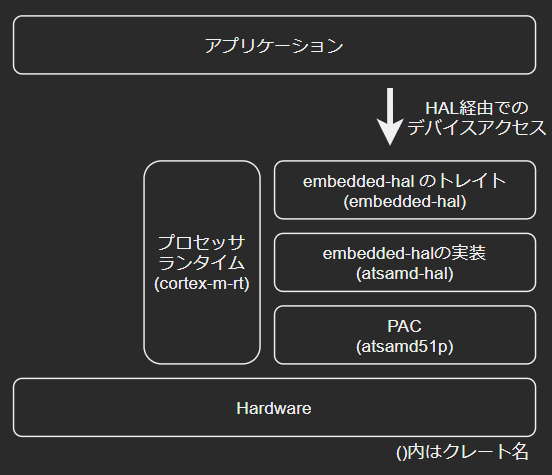
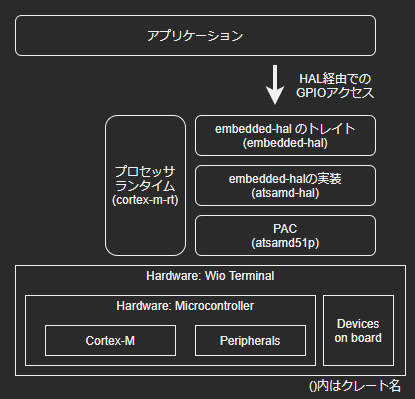
Update diagram

diff --git a/README.md b/README.md
@@ -102,7 +102,7 @@ rustflags = [
     - 他の説明を見ると、`build.rs` を用意してビルド時にoutフォルダにコピーするようにする必要があるようですが、無くても大丈夫でした
 - このファイルが無かったり、ミスがあるとビルド時にリンクエラーが発生します
     - " error: linking with `rust-lld` failed: exit code: 1 "
-- メモリレイアウトは、通常はマイコンのデータシートに記載のメモリマップを元に作成します。が、今回は下記に既に正解があるのでこれを使いました
+- メモリレイアウトは、通常はマイコンのデータシートに記載のメモリマップを元に作成します。今回は下記に既に正解があるのでこれを使いました
     - https://docs.rs/crate/wio_terminal/0.2.0/source/memory.x
 
 ```txt:memory.x
@@ -354,7 +354,7 @@ fn main() -> ! {
 # BSPを用いてペリフェラルを制御する
 - 次に、BSP (Board Support Package) を用いてみます。BSPがボード依存(今回の場合、Wio Terminal依存) の制御を吸収してくれます。そのため、「USER_LED」とか「Button1」というWioで使われている名前を使えます
 - 今回の場合は制御対象がGPIOだけなのであまりメリットはありません。実際、GPIOなどの簡単なデバイスに関しては、atsamd-halをre-exportしているだけです。そのため、コードもHALを用いた場合とほぼ同じです
-- BSPは他にも光センサや液晶ディスプレイを使うためのAPIも提供してくれます。HALだけだと、開発者がADCやSPIをHAL経由で使って、対象となるセンサや液晶ディスプレイを制御する必要があります。が、BSPはボードに搭載されたデバイスを使うためのAPIも提供してくれます
+- BSPは他にも光センサや液晶ディスプレイを使うためのAPIも提供してくれます。HALだけだと、開発者がADCやSPIをHAL経由で使って、対象となるセンサや液晶ディスプレイを自分で制御する必要があります。一方、BSPはボードに搭載されたデバイスを使うためのAPIも提供してくれます
 - https://github.com/iwatake2222/rust_embedded_wio_bottom_up/tree/master/pj_04_gpio_by_bsp
 
 ![image](00_image/pj04_layer.png)
